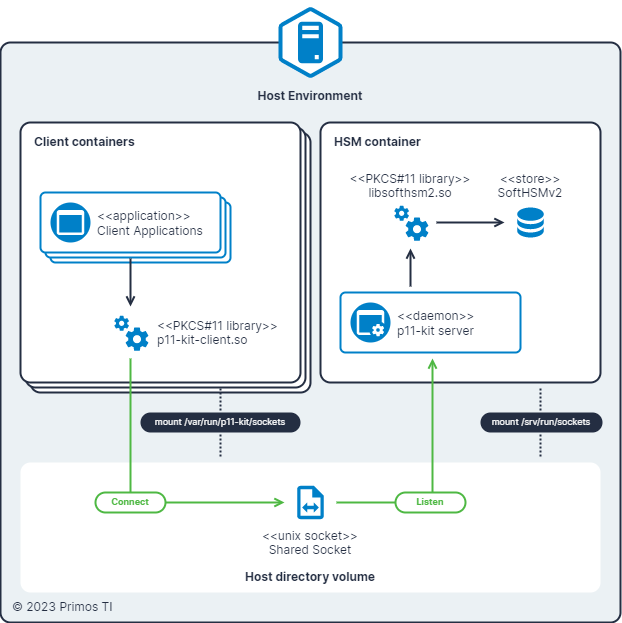
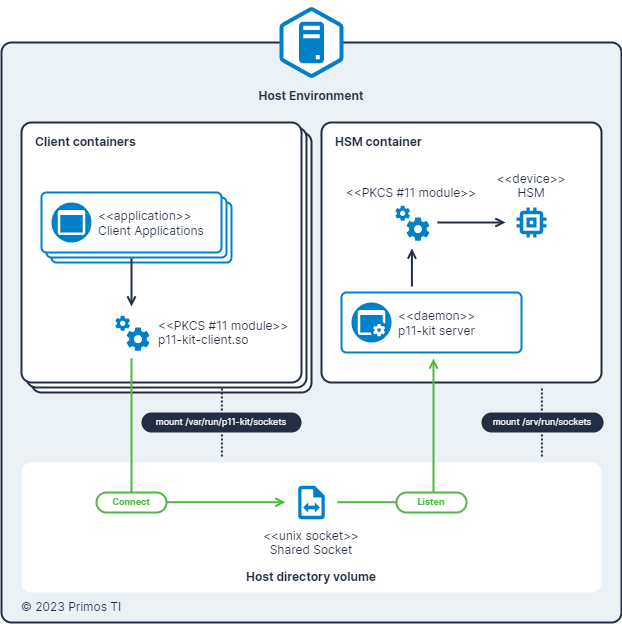
Samples README

Changed region(s): [[0.0, 0.0305, 1.0, 1.0], [0.4277, 0.0305, 0.4887, 0.0915], [0.4887, 0.0, 0.5193, 0.0305]]

diff --git a/samples/README.md b/samples/README.md
@@ -1,0 +1,99 @@
+# Samples of how to use Virtual PKCS #11 Module SoftHSMv2 by Primos TI
+
+PKCS #11 is a standard to standard defines a library interface to access and operate cryptographic tokens, such as
+hardware security modules (HSM), smart cards, etc. This standard are implemented by different vendors, and the
+implementation of this standard is called PKCS #11 module. With a PKCS #11 module, it is possible to access a token and
+operate with its key material. For example, to generate a key pair, to sign a message, to encrypt data, etc.
+Independently of the token vendor.
+
+SoftHSMv2 is an implementation of a cryptographic store accessible through a PKCS #11 interface. You can use it to
+explore PKCS #11 without having a Hardware Security Module. It is being developed as a part of the OpenDNSSEC project.
+
+![pkcs11-softhsm2-diagram](pkcs11-softhsm2.png "PKCS #11 with SoftHSMv2")
+
+# Sharing HSM tokens with PKCS #11
+
+Sometimes may be useful to share a HSM token remotely. This can be done by using a very useful PKCS #11 set of tools
+called [p11-kit]. This set of tools provides a PKCS #11 server and client. The `p11-kit server` command starts a server
+that exposes a PKCS #11 module via a [Unix Domain Socket]. The `p11-kit-client.so` is a PKCS #11 module that can be used
+on the client side to connect to the server and operate with the token.
+
+![share-token-p11-kit-diagram](share-token-p11-kit.png "Sharing a token remotely using p11-kit")
+
+This is useful, for example, to protect a key material available to other applications, maintaining these
+materials isolated and protected. As example, consider the following scenarios:
+
+- Connect to a SSH server using a key material;
+- Stablish a mutual TLS connection using a key material;
+- Store certificates and keys available to applications running on other containers;
+
+Normally, on this scenarios, when a key material is needed, these keys are stored in a file (encrypted by a password - 
+*I hope*) and the application accesses the file to read the key material (with the password). This is not safe, because
+the key material can be exposed, if the application is compromised. With a PKCS #11 token, the key material access is
+protected by a PIN and the application can only operate with the key material, not reading it.
+
+## Sharing HSM tokens to the host applications
+
+You may think: *"I don't need to share the token to operate a local token with local applications. I can use the token
+PKCS #11 module directly."*. Yes, you may be right! But, if you want isolate the token access infrastructure? Or, if you
+want to share the token to operate with the token remotely.
+
+First, to isolate the token access infrastructure, you can use a container to run the token server on a isolated and
+protected environment.
+
+Second, to share the token to operate with the token remotely, you can use the `p11-kit server` command to start a
+server that exposes the token PKCS #11 module via a [Unix Domain Socket]. Note that you must mount the socket on a
+volume, shared with the host. Then, on the host, you can use the `p11-kit-client.so` PKCS #11 module to connect to the
+server and operate with the token.
+
+The following diagram illustrates the scenario:
+
+![share-token-to-host-diagram](share-token-to-host.png "Sharing HSM tokens to the host applications diagram")
+
+## Sharing HSM tokens to another containers applications on the same host
+
+The same scenario described [above](#sharing-hsm-tokens-to-the-host-applications) can be used to share the token to
+another containers applications on the same host. The difference is that the shared socket must be mounted on a volume
+in the client containers.
+
+The following diagram illustrates the scenario:
+
+![share-token-to-containers-diagram](share-token-to-containers.png "Sharing HSM tokens to another containers applications on the same host diagram")
+
+## Sharing HSM tokens to another host over network with SSL/TLS
+
+The same scenario described [above](#sharing-hsm-tokens-to-the-host-applications) can be used to share the token to
+another host over network with SSL/TLS.
+
+## Sharing HSM tokens examples
+
+The following examples show how to share a token to operate with the token remotely.
+
+- [Sharing HSM tokens to another host over network with SSL/TLS](samples/share-token-over-ssl).
+- [Sharing HSM tokens to another host over network with SSH](samples/share-token-over-ssh).
+- Sharing HSM tokens over a web API (concepts) (soon).
+
+## Security considerations
+
+**Warning:** Sharing the token remotely can have security implications. Take security measures to protect the token from
+unauthorized access.
+
+Some security measures includes:
+
+- Use strong Security Officer (SO) PIN and User PIN to protect the token.
+- Define a specific user and group for the container.
+- Set the permissions of the exposed socket to be accessible only by a specific user and group.
+- When sharing the token over network, use a secure connection with mutual authentication (e.g. TLS).
+- Protect the access to the SoftHSMv2 storage. Read more about [SoftHSMv2 storage internals].
+
+> YOU MUST ANALYZE YOUR OWN SCENARIO AND TAKE THE APPROPRIATE SECURITY MEASURES, BY YOUR OWN RISK.
+
+# License
+
+Copyright © 2023 Primos TI
+
+This project is licensed under the MIT License - see the [LICENSE](LICENSE) file for details.
+
+[p11-kit]: https://p11-glue.github.io/p11-glue/p11-kit.html
+[Unix Domain Socket]: https://man7.org/linux/man-pages/man7/unix.7.html
+[SoftHSMv2 storage internals]: https://xakcop.com/post/softhsmv2/

diff --git a/samples/share-token-over-ssl/README.md b/samples/share-token-over-ssl/README.md
@@ -1,20 +1,11 @@
 # Sharing HSM tokens to another host over network with SSL/TLS
 
-Sometimes may be useful to share the HSM (Hardware Security Module) token remotely. This can be done exposing the token
-via a [Unix Domain Socket] by running `p11-kit server` command on the `ghcr.io/primosti/softhsm2` container. Then, the
-token can be accessed by using the PKCS #11 module `p11-kit-client.so` to connect to this socket on the client side.
+This example is part of the [Sharing HSM tokens examples](../README.md#sharing-hsm-tokens-examples) and shows how to
+share a token to operate it remotely over network with SSL/TLS protocol.
 
-This is useful, for example, to protect a key material available to other applications in another hosts, maintaining
-these materials isolated and protected. As example, consider the following scenarios:
+This example uses the `ghcr.io/primosti/softhsm2` image as `HSM container` to use [SoftHSMv2] as the HSM token.
 
-- Connect to a SSH server using a key material;
-- Stablish a mutual TLS connection using a key material;
-- Store certificates and keys available to applications running on other hosts;
-
-Normally, on this scenarios, when a key material is needed, these keys are stored in a file (encrypted by a password -
-*I hope*) and the application accesses the file to read the key material (with the password). This is not safe, because
-the key material can be exposed, if the application is compromised. With a PKCS #11 token, the key material access is
-protected by a PIN and the application can only operate with the key material, not reading it.
+![softhsm2-container-diagram](softhsm2-container.png "Softhsm2 container diagram")
 
 ## How to share the token over network with SSL/TLS
 
@@ -94,7 +85,8 @@ Licensed under the MIT License. See LICENSE in the project root for license info
 
 
 [Unix Domain Socket]: https://man7.org/linux/man-pages/man7/unix.7.html
+[SoftHSMv2]: https://www.opendnssec.org/softhsm/
 [SoftHSMv2 storage internals]: https://xakcop.com/post/softhsmv2/
-[share-token-diagram]: diagram.png "Sharing HSM tokens to another host over network with SSL/TLS"
+[share-token-diagram]: share-token-over-ssl.png "Sharing HSM tokens to another host over network with SSL/TLS"
 [GnuTLS: PKCS #11 Initialization]: https://www.gnutls.org/manual/html_node/PKCS11-Initialization.html
 [pkcs11.conf(5)]: https://man.archlinux.org/man/pkcs11.conf.5.en

diff --git a/samples/share-token-over-ssh/README.md b/samples/share-token-over-ssh/README.md
@@ -1,20 +1,11 @@
 # Sharing HSM tokens to another host over network with SSH
 
-Sometimes may be useful to share the HSM (Hardware Security Module) token remotely. This can be done exposing the token
-via a [Unix Domain Socket] by running `p11-kit server` command on the `ghcr.io/primosti/softhsm2` container. Then, the
-token can be accessed by using the PKCS #11 module `p11-kit-client.so` to connect to this socket on the client side.
+This example is part of the [Sharing HSM tokens examples](../README.md#sharing-hsm-tokens-examples) and shows how to
+share a token to operate it remotely over network with SSH protocol.
 
-This is useful, for example, to protect a key material available to other applications in another hosts, maintaining
-these materials isolated and protected. As example, consider the following scenarios:
+This example uses the `ghcr.io/primosti/softhsm2` image as `HSM container` to use [SoftHSMv2] as the HSM token.
 
-- Connect to a SSH server using a key material;
-- Stablish a mutual TLS connection using a key material;
-- Store certificates and keys available to applications running on other hosts;
-
-Normally, on this scenarios, when a key material is needed, these keys are stored in a file (encrypted by a password -
-*I hope*) and the application accesses the file to read the key material (with the password). This is not safe, because
-the key material can be exposed, if the application is compromised. With a PKCS #11 token, the key material access is
-protected by a PIN and the application can only operate with the key material, not reading it.
+![softhsm2-container-diagram](softhsm2-container.png "Softhsm2 container diagram")
 
 ## How to share the token over network with SSH
 
@@ -93,7 +84,8 @@ Licensed under the MIT License. See LICENSE in the project root for license info
 
 
 [Unix Domain Socket]: https://man7.org/linux/man-pages/man7/unix.7.html
+[SoftHSMv2]: https://www.opendnssec.org/softhsm/
 [SoftHSMv2 storage internals]: https://xakcop.com/post/softhsmv2/
-[share-token-diagram]: diagram.png "Sharing HSM tokens to another host over network with SSH"
+[share-token-diagram]: share-token-over-ssh.png "Sharing HSM tokens to another host over network with SSH"
 [GnuTLS: PKCS #11 Initialization]: https://www.gnutls.org/manual/html_node/PKCS11-Initialization.html
 [pkcs11.conf(5)]: https://man.archlinux.org/man/pkcs11.conf.5.en

diff --git a/README.md b/README.md
@@ -210,8 +210,8 @@ Some security measures includes:
 
 There are some examples of how to share the token remotely, for different cases:
 
-- [Sharing HSM tokens to the host applications](samples/share-token-to-host.md).
-- [Sharing HSM tokens to another containers on the same host](samples/share-token-to-containers.md).
+- [Sharing HSM tokens to the host applications](samples/README.md#sharing-hsm-tokens-to-the-host-applications).
+- [Sharing HSM tokens to another containers on the same host](samples/README.md#sharing-hsm-tokens-to-another-containers-applications-on-the-same-host).
 - [Sharing HSM tokens to another host over network with SSL/TLS](samples/share-token-over-ssl).
 - [Sharing HSM tokens to another host over network with SSH](samples/share-token-over-ssh).
 - Sharing HSM tokens over a web API (concepts) (soon).
